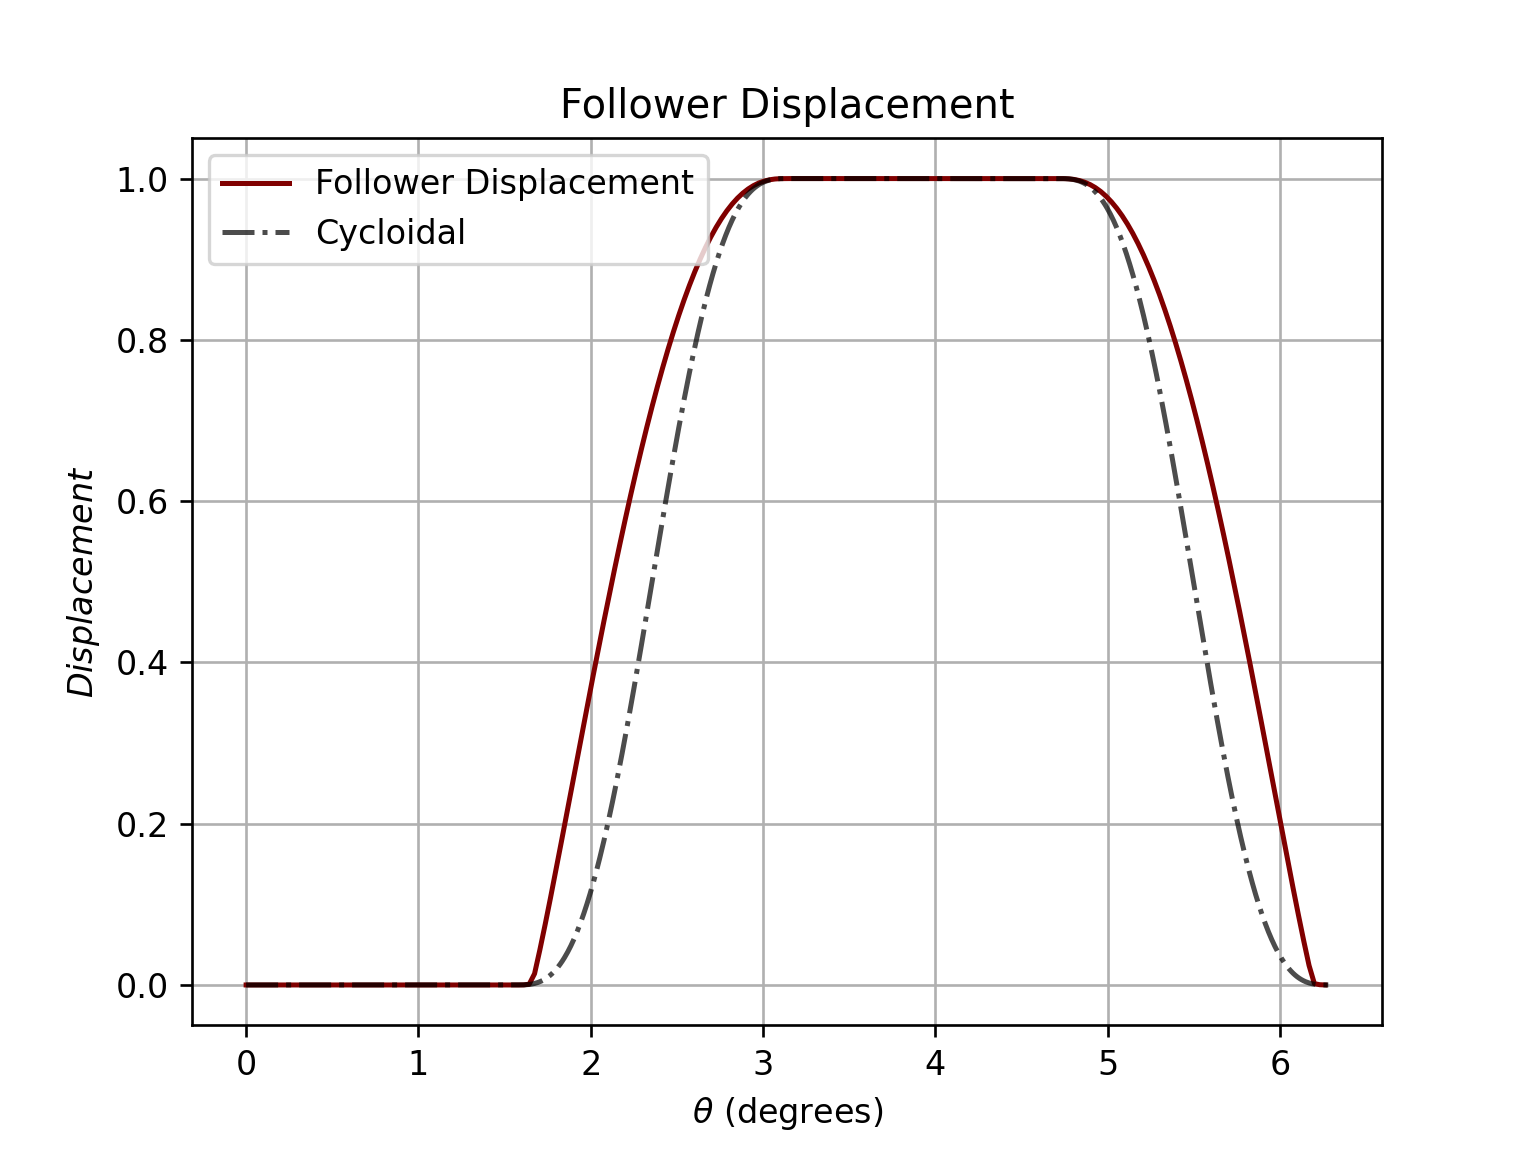
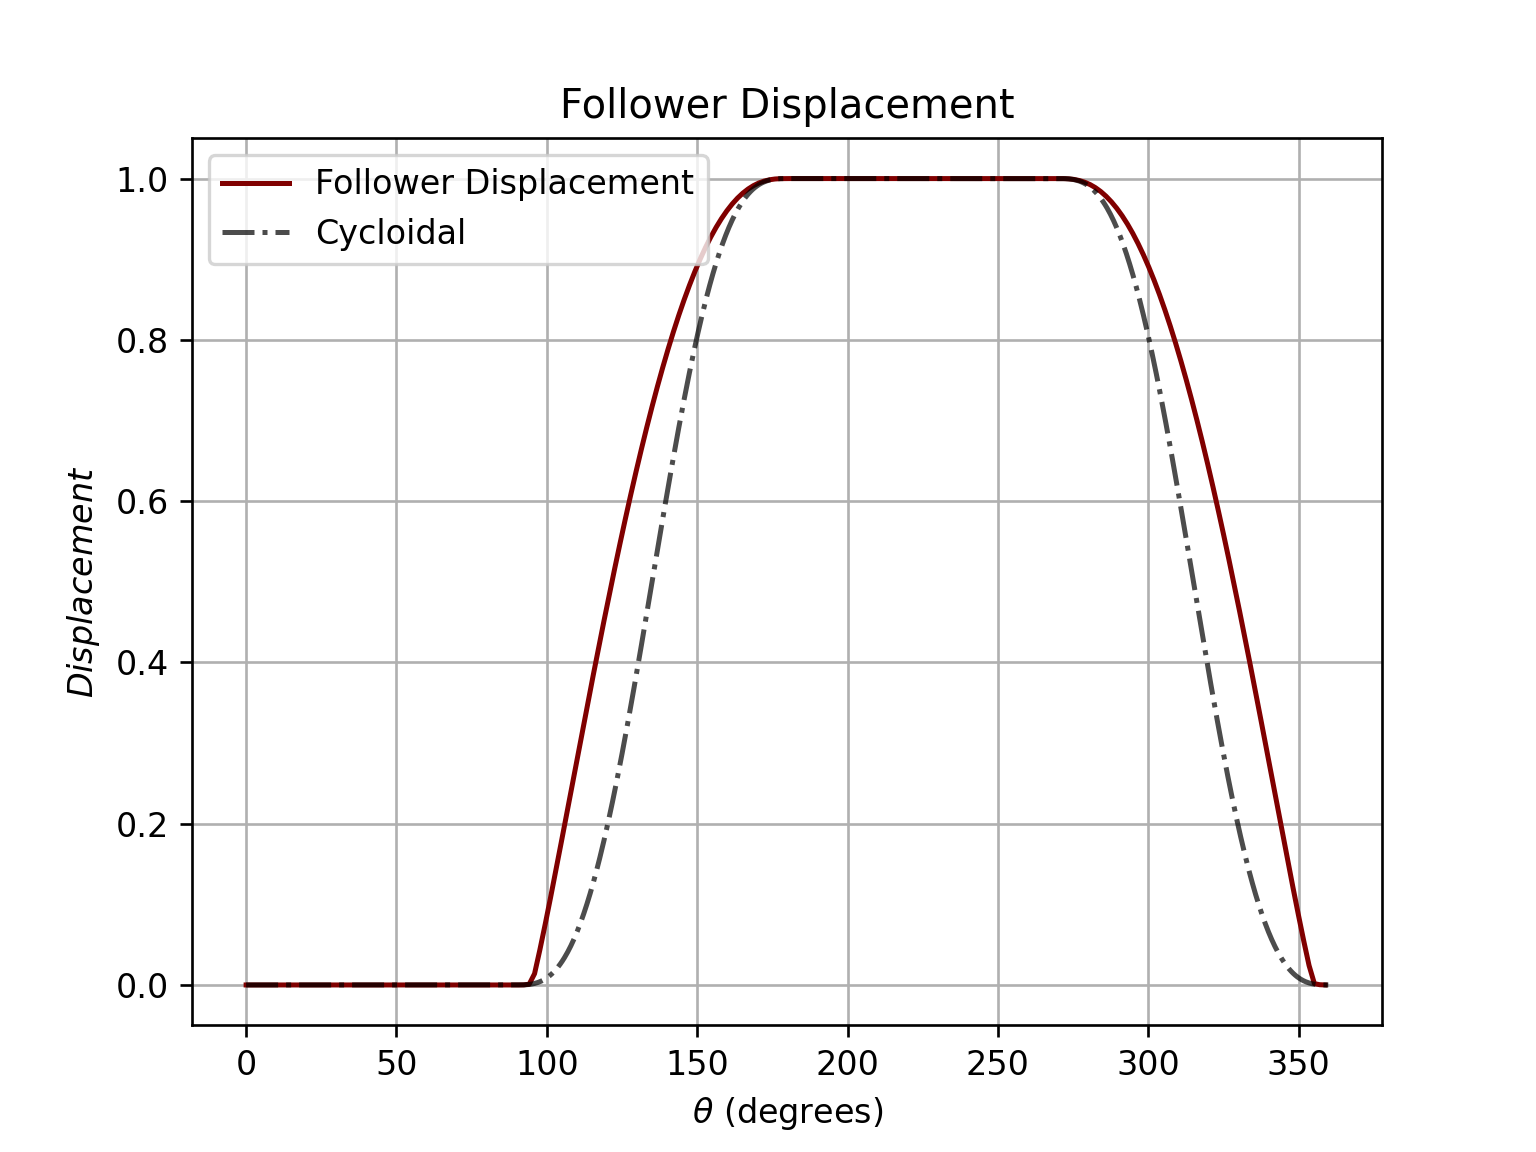
changed x axis to degrees in follower plot

diff --git a/mechanism/cams.py b/mechanism/cams.py
@@ -631,9 +631,9 @@ class RollerFollower:
     def plot(self):
         """Plots the displacement of the follower alongside the cam displacement"""
         fig, ax = plt.subplots()
-        ax.plot(self.motion.thetas[self.indexes], self.S, label='Follower Displacement',
+        ax.plot(np.rad2deg(self.motion.thetas[self.indexes]), self.S, label='Follower Displacement',
                 **self.motion.cam_plot['default'])
-        ax.plot(self.motion.thetas, self.motion.S, **self.motion.appearance)
+        ax.plot(np.rad2deg(self.motion.thetas), self.motion.S, **self.motion.appearance)
         ax.set_title('Follower Displacement')
         ax.set_xlabel(r'$\theta$ (degrees)')
         ax.set_ylabel(r'$Displacement$')
@@ -688,9 +688,9 @@ class FlatFollower:
 
     def plot(self):
         fig, ax = plt.subplots()
-        ax.plot(self.motion.thetas[self.indexes], self.S, label='Follower Displacement',
+        ax.plot(np.rad2deg(self.motion.thetas[self.indexes]), self.S, label='Follower Displacement',
                 **self.motion.cam_plot['default'])
-        ax.plot(self.motion.thetas, self.motion.S, **self.motion.appearance)
+        ax.plot(np.rad2deg(self.motion.thetas), self.motion.S, **self.motion.appearance)
         ax.set_title('Follower Displacement')
         ax.set_xlabel(r'$\theta$ (degrees)')
         ax.set_ylabel(r'$Displacement$')
